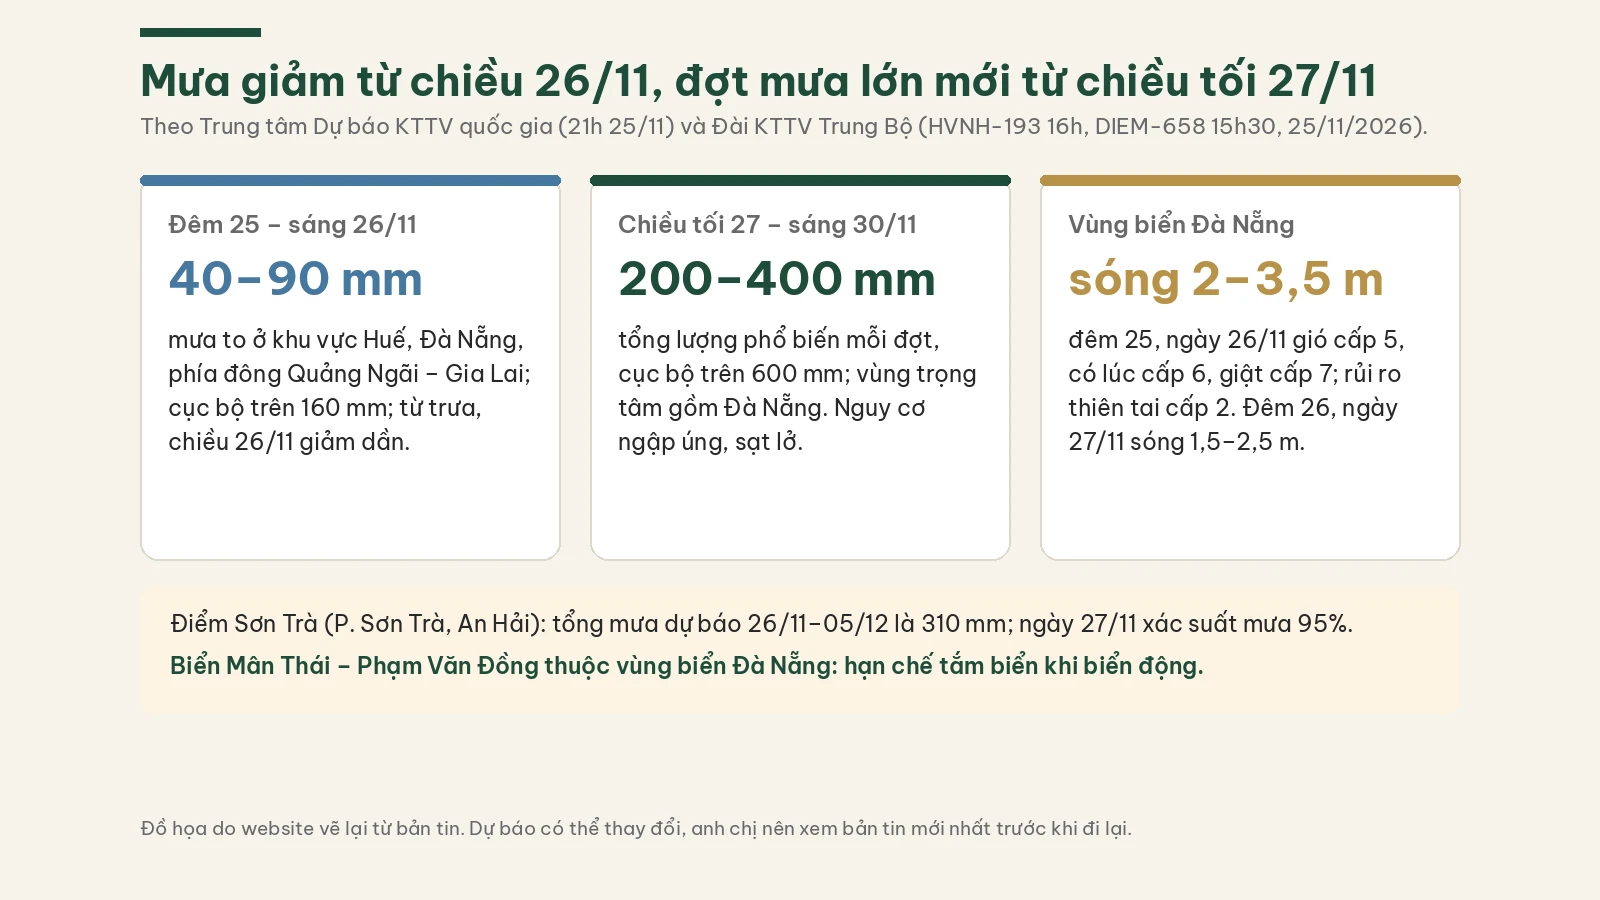
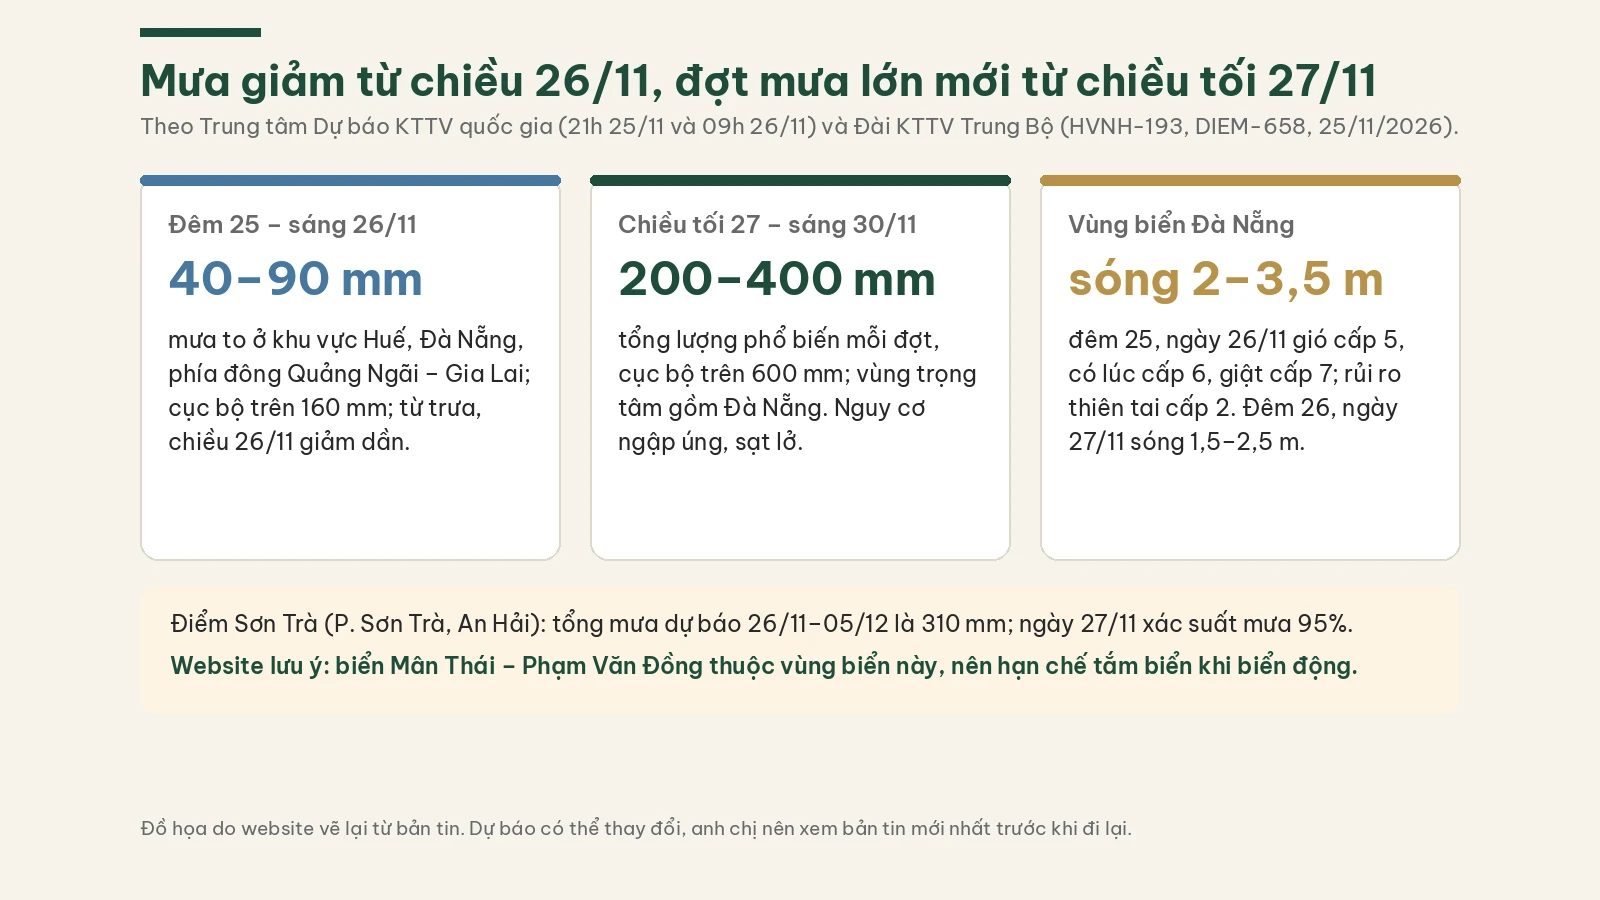
content: chỉnh góp ý không chặn của Luna trên tin Sơn Trà 24–26/11 (26.11.2026)

Changed region(s): [[0.0938, 0.7156, 0.8438, 0.7778], [0.4062, 0.1244, 0.9062, 0.1556]]

diff --git a/src/data/news/articles/son-tra-ban-co-kiem-diem-mua-lon-26-11-2026.ts b/src/data/news/articles/son-tra-ban-co-kiem-diem-mua-lon-26-11-2026.ts
@@ -33,7 +33,7 @@ export const article = {
     },
     {
       heading: "Ngày nghỉ 24/11: đường lên đỉnh Bàn Cờ ùn tắc",
-      text: "Ngày 24/11/2026, Ngày Văn hóa Việt Nam lần thứ nhất, là ngày nghỉ lễ. Theo Tuổi Trẻ (24/11/2026), từ rạng sáng rất đông người dân, du khách lên bán đảo Sơn Trà tham quan, đi bộ, trekking; tại đoạn cách chân núi khoảng 2 km, xe máy dựng kín hai bên đường. Từ 9 giờ, khi nhiều người xuống núi trong lúc xe vẫn đi hai chiều, tuyến từ đường Yết Kiêu lên đỉnh Bàn Cờ ùn tắc kéo dài, nặng nhất khoảng 9–11 giờ khi trời có mưa. Công an phường Sơn Trà và Ban Quản lý bán đảo Sơn Trà và các bãi biển du lịch Đà Nẵng tăng cường lực lượng điều tiết hai chiều, đồng thời hạn chế ô tô tiếp tục lên núi; đến gần 12 giờ đường mới ngớt người.",
+      text: "Ngày 24/11/2026, Ngày Văn hóa Việt Nam lần thứ nhất, là ngày nghỉ lễ. Theo Tuổi Trẻ (24/11/2026), từ rạng sáng rất đông người dân, du khách lên bán đảo Sơn Trà tham quan, đi bộ, trekking; tại đoạn cách chân núi khoảng 2 km, xe máy dựng kín hai bên đường. Từ 9 giờ, khi nhiều người xuống núi trong lúc xe vẫn đi hai chiều, tuyến từ đường Yết Kiêu lên đỉnh Bàn Cờ ùn tắc kéo dài, nặng nhất khoảng 9–11 giờ khi trời có mưa. Công an phường Sơn Trà cùng Ban Quản lý bán đảo Sơn Trà và các bãi biển du lịch Đà Nẵng tăng cường lực lượng điều tiết hai chiều, đồng thời hạn chế ô tô tiếp tục lên núi; đến gần 12 giờ đường mới ngớt người.",
     },
     {
       text: "Theo Dân trí và VietNamNet (24/11/2026), Ban Quản lý bán đảo khuyến cáo: đậu, đỗ xe đúng nơi quy định, không lấn chiếm lòng đường hay cản lối ra vào chốt trực; khi bãi xe quá tải thì theo hướng dẫn của nhân viên. Xe dịch vụ và ô tô từ 16 chỗ trở lên chỉ dừng tại chốt để đón, trả khách rồi xuống chân núi, không đậu chờ tại trạm gác. Người trekking nên chuẩn bị sức khỏe, mang nước, đi theo nhóm, không tách đoàn hay vào khu vực không được phép tham quan; khi có biểu hiện nặng như ngất, co giật thì gọi cấp cứu 115 hoặc báo nhân viên Ban Quản lý.",
@@ -42,7 +42,7 @@ export const article = {
       text: "Ngày 25/11, Tuổi Trẻ dẫn lời đại diện Ban Quản lý bán đảo cho biết lượng người lên núi quá đông gây áp lực cho vệ sinh môi trường: dù đã khuyến cáo liên tục, tình trạng xả rác, bẻ cành cây vẫn xảy ra, nhất là hôm trời mưa còn nhiều túi ni lông, áo mưa bị bỏ lại; đơn vị phải huy động người lên núi dọn liên tục.",
     },
     {
-      text: "Bán đảo Sơn Trà đã tạm dừng hoạt động tham quan từ 15h30 ngày 10/11/2026, khi đó Ban Quản lý chưa xác định thời điểm mở lại (VietNamNet, 10/11/2026). Các bài báo ngày 24 và 25/11 mô tả người dân lên núi đông và Ban Quản lý trực chốt, điều tiết, nhưng không nhắc đến thông báo ngày 10/11; đến sáng 26/11 website chưa thấy thông báo mở lại chính thức nào được báo chí đưa tin. Với đợt mưa lớn sắp tới, anh chị nên theo dõi thông báo chính thức của Ban Quản lý bán đảo trước khi lên núi.",
+      text: "Bán đảo Sơn Trà đã tạm dừng hoạt động tham quan từ 15h30 ngày 10/11/2026, khi đó Ban Quản lý chưa xác định thời điểm mở lại (VietNamNet, 10/11/2026). Các bài báo ngày 24 và 25/11 mô tả người dân lên núi đông và Ban Quản lý trực chốt, điều tiết, nhưng không nhắc đến thông báo ngày 10/11; đến sáng 26/11, website chưa thấy báo chí đưa tin Ban Quản lý có thông báo mở lại tham quan. Với đợt mưa lớn sắp tới, anh chị nên theo dõi thông báo chính thức của Ban Quản lý bán đảo trước khi lên núi.",
       links: [
         {
           to: "/tin-tuc/son-tra-tam-dung-tham-quan-bai-cat-vang-12-11-2026",
@@ -60,7 +60,7 @@ export const article = {
       text: "Chiều 25/11/2026, Ban Thường vụ Đảng ủy phường Sơn Trà tổ chức hội nghị kiểm điểm tập thể, cá nhân năm 2026, có Phó Bí thư Thường trực Thành ủy Nguyễn Khắc Toàn dự (Báo Đà Nẵng, 25/11/2026). Theo bài báo, năm 2026 thu ngân sách nhà nước trên địa bàn phường ước đạt 1.687,65 tỷ đồng, bằng 100,1% dự toán; giải ngân vốn đầu tư công ước 131,84 tỷ đồng, bằng 107,5% kế hoạch; tốc độ tăng tổng giá trị sản phẩm trên địa bàn ước 11,36%; thu nhập bình quân đầu người 6,8 triệu đồng/tháng. Đồ họa dưới đây do website vẽ lại từ bài Báo Đà Nẵng.",
       image: "/images/news-son-tra-2611-body-phuong.webp",
       imageAlt:
-        "Đồ họa số liệu phường Sơn Trà năm 2026 nêu tại hội nghị kiểm điểm Ban Thường vụ Đảng ủy phường ngày 25/11/2026 (Báo Đà Nẵng 25/11/2026): thu ngân sách ước 1.687,65 tỷ đồng, bằng 100,1% dự toán; giải ngân đầu tư công ước 131,84 tỷ đồng, bằng 107,5% kế hoạch; tăng tổng giá trị sản phẩm ước 11,36%; thu nhập bình quân 6,8 triệu đồng/người/tháng; hơn 250 đợt ra quân trật tự vỉa hè trên 98 tuyến đường; gần 700 tấn rác tồn đọng được thu gom, xóa hơn 50 điểm đen rác; phạm pháp hình sự giảm 27%; hồ sơ hành chính đúng hạn 99,6%. Những việc được yêu cầu kiểm điểm sâu: quản lý đô thị, trật tự xây dựng, vệ sinh môi trường, giải phóng mặt bằng; một số dự án kéo dài; khai thác biển, bán đảo Sơn Trà và không gian ven biển chưa tương xứng; tội phạm ma túy có chiều hướng gia tăng.",
+        "Đồ họa số liệu phường Sơn Trà năm 2026 nêu tại hội nghị kiểm điểm Ban Thường vụ Đảng ủy phường ngày 25/11/2026 (Báo Đà Nẵng 25/11/2026): thu ngân sách ước 1.687,65 tỷ đồng, bằng 100,1% dự toán; giải ngân đầu tư công ước 131,84 tỷ đồng, bằng 107,5% kế hoạch; tăng tổng giá trị sản phẩm ước 11,36%; thu nhập bình quân 6,8 triệu đồng/người/tháng; hơn 250 đợt ra quân trật tự vỉa hè trên 98 tuyến đường; gần 700 tấn rác tồn đọng được thu gom, xóa hơn 50 điểm đen rác; phạm pháp hình sự giảm 27%; hồ sơ hành chính trước hạn, đúng hạn 99,6%. Những việc được yêu cầu kiểm điểm sâu: quản lý đô thị, trật tự xây dựng, vệ sinh môi trường, giải phóng mặt bằng; một số dự án kéo dài; khai thác biển, bán đảo Sơn Trà và không gian ven biển chưa tương xứng; tội phạm ma túy có chiều hướng gia tăng.",
     },
     {
       text: "Về quản lý đô thị, phường có hơn 250 đợt ra quân xử lý trật tự vỉa hè trên 98 tuyến đường, thu gom gần 700 tấn rác thải tồn đọng, xóa hơn 50 điểm đen tập kết rác sai quy định; hỗ trợ an sinh hơn 3 tỷ đồng, trợ cấp thường xuyên cho 2.820 đối tượng. Phạm pháp hình sự giảm 27% so với cùng kỳ; tỷ lệ hồ sơ hành chính giải quyết trước hạn, đúng hạn 99,6%. Ban Thường vụ cũng thông qua ba đề án trọng tâm về phát triển kinh tế biển bền vững, xây dựng cộng đồng hạnh phúc và nâng cao chất lượng giáo dục. (Báo Đà Nẵng, 25/11/2026)",
@@ -70,10 +70,10 @@ export const article = {
     },
     {
       heading: "Mưa giảm từ chiều 26/11, đợt mưa lớn mới từ chiều tối 27/11",
-      text: "Theo Trung tâm Dự báo khí tượng thủy văn quốc gia (tin 21h ngày 25/11/2026), từ đêm 25 đến sáng 26/11, khu vực Huế, Đà Nẵng và phía đông các tỉnh từ Quảng Ngãi đến Gia Lai có mưa to, phổ biến 40–90 mm, cục bộ trên 160 mm; từ trưa và chiều 26/11 mưa giảm dần. Từ chiều tối 27 đến sáng 30/11, khu vực từ Huế đến Đà Nẵng, phía đông các tỉnh từ Quảng Ngãi đến Đắk Lắk và Khánh Hòa có khả năng cao xuất hiện một đợt mưa lớn diện rộng; trọng tâm gồm phía nam Huế, Đà Nẵng và phía đông các tỉnh từ Quảng Ngãi đến Gia Lai, tổng lượng phổ biến 200–400 mm/đợt, cục bộ trên 600 mm. Cơ quan dự báo cảnh báo nguy cơ ngập úng ở vùng trũng, khu đô thị và sạt lở đất trên sườn dốc.",
+      text: "Theo Trung tâm Dự báo khí tượng thủy văn quốc gia (tin 21h ngày 25/11/2026), từ đêm 25 đến sáng 26/11, khu vực Huế, Đà Nẵng và phía đông các tỉnh từ Quảng Ngãi đến Gia Lai có mưa to, phổ biến 40–90 mm, cục bộ trên 160 mm; từ trưa và chiều 26/11 mưa giảm dần. Từ chiều tối 27 đến sáng 30/11, khu vực từ Huế đến Đà Nẵng, phía đông các tỉnh từ Quảng Ngãi đến Đắk Lắk và Khánh Hòa có khả năng cao xuất hiện một đợt mưa lớn diện rộng; trọng tâm gồm phía nam Huế, Đà Nẵng và phía đông các tỉnh từ Quảng Ngãi đến Gia Lai, tổng lượng phổ biến 200–400 mm/đợt, cục bộ trên 600 mm. Bản tin 09h ngày 26/11/2026 của cùng cơ quan vẫn nêu tổng lượng phổ biến 200–400 mm/đợt, cục bộ trên 600 mm. Cơ quan dự báo cảnh báo nguy cơ ngập úng ở vùng trũng, khu đô thị và sạt lở đất trên sườn dốc.",
       image: "/images/news-son-tra-2611-body-mua.webp",
       imageAlt:
-        "Đồ họa mưa lớn và biển động: theo Trung tâm Dự báo KTTV quốc gia tin 21h ngày 25/11/2026, đêm 25 đến sáng 26/11 khu vực Huế, Đà Nẵng và phía đông Quảng Ngãi – Gia Lai mưa to 40–90 mm, cục bộ trên 160 mm, từ trưa chiều 26/11 giảm dần; từ chiều tối 27 đến sáng 30/11 đợt mưa lớn diện rộng, vùng trọng tâm gồm Đà Nẵng, tổng lượng phổ biến 200–400 mm/đợt, cục bộ trên 600 mm. Theo Đài KTTV Trung Bộ 25/11: vùng biển Đà Nẵng đêm 25 và ngày 26/11 gió cấp 5, có lúc cấp 6, giật cấp 7, sóng 2,0–3,5 m, rủi ro thiên tai do gió mạnh trên biển cấp 2; đêm 26 và ngày 27/11 gió cấp 4–5, giật cấp 6, sóng 1,5–2,5 m. Điểm dự báo Sơn Trà (phường Sơn Trà, An Hải): tổng mưa 26/11–05/12 dự báo 310 mm, xác suất mưa 95% ngày 27/11.",
+        "Đồ họa mưa lớn và biển động: theo Trung tâm Dự báo KTTV quốc gia tin 21h ngày 25/11/2026, đêm 25 đến sáng 26/11 khu vực Huế, Đà Nẵng và phía đông Quảng Ngãi – Gia Lai mưa to 40–90 mm, cục bộ trên 160 mm, từ trưa chiều 26/11 giảm dần; từ chiều tối 27 đến sáng 30/11 đợt mưa lớn diện rộng, vùng trọng tâm gồm Đà Nẵng, tổng lượng phổ biến 200–400 mm/đợt, cục bộ trên 600 mm (bản tin 09h 26/11 vẫn nêu 200–400 mm/đợt, cục bộ trên 600 mm). Dòng website lưu ý: biển Mân Thái – Phạm Văn Đồng thuộc vùng biển này, nên hạn chế tắm biển khi biển động. Theo Đài KTTV Trung Bộ 25/11: vùng biển Đà Nẵng đêm 25 và ngày 26/11 gió cấp 5, có lúc cấp 6, giật cấp 7, sóng 2,0–3,5 m, rủi ro thiên tai do gió mạnh trên biển cấp 2; đêm 26 và ngày 27/11 gió cấp 4–5, giật cấp 6, sóng 1,5–2,5 m. Điểm dự báo Sơn Trà (phường Sơn Trà, An Hải): tổng mưa 26/11–05/12 dự báo 310 mm, xác suất mưa 95% ngày 27/11.",
     },
     {
       text: "Đài Khí tượng thủy văn Trung Bộ (tin 16h ngày 25/11/2026) dự báo đêm 25 và ngày 26/11 vùng biển Đà Nẵng gió Đông Bắc cấp 5, có lúc cấp 6, giật cấp 7, biển động, sóng cao 2,0–3,5 m, cấp độ rủi ro thiên tai do gió mạnh trên biển cấp 2; đêm 26 và ngày 27/11 gió còn cấp 4–5, giật cấp 6, sóng 1,5–2,5 m. Bản tin dự báo điểm 10 ngày cùng ngày (15h30) cho điểm Sơn Trà, đại diện phường Sơn Trà và phường An Hải, tổng lượng mưa từ 26/11 đến 05/12 là 310 mm, xác suất mưa 95% ngày 27/11. Biển Mân Thái – Phạm Văn Đồng nằm trong vùng biển này; anh chị nên hạn chế tắm biển khi biển động và xem bản tin mới nhất trước khi đi lại.",
@@ -105,11 +105,11 @@ export const article = {
     },
     {
       heading: "Đợt mưa lớn tiếp theo ở Đà Nẵng là khi nào?",
-      text: "Theo Trung tâm Dự báo KTTV quốc gia (21h ngày 25/11/2026), từ chiều tối 27 đến sáng 30/11 khu vực từ Huế đến Đà Nẵng và một số tỉnh Nam Trung Bộ có khả năng cao mưa lớn diện rộng, phổ biến 200–400 mm/đợt, cục bộ trên 600 mm. Dự báo có thể thay đổi, anh chị nên xem bản tin mới nhất.",
+      text: "Theo Trung tâm Dự báo KTTV quốc gia (21h ngày 25/11/2026), từ chiều tối 27 đến sáng 30/11 khu vực từ Huế đến Đà Nẵng và một số tỉnh Nam Trung Bộ có khả năng cao mưa lớn diện rộng, phổ biến 200–400 mm/đợt, cục bộ trên 600 mm. Bản tin 09h ngày 26/11/2026 vẫn nêu cùng mức 200–400 mm/đợt, cục bộ trên 600 mm. Dự báo có thể thay đổi, anh chị nên xem bản tin mới nhất.",
     },
     {
       heading: "Lưu ý",
-      text: "Thông tin tổng hợp từ Tuổi Trẻ (24 và 25/11/2026), Dân trí (24/11/2026), VietNamNet (24/11 và 10/11/2026), Báo Đà Nẵng (25/11/2026), Trung tâm Dự báo khí tượng thủy văn quốc gia (25/11/2026) và Đài Khí tượng thủy văn Trung Bộ (25/11/2026), mang tính tham khảo. Bài không phải thông báo chính thức của UBND TP Đà Nẵng, Đảng ủy hay UBND phường Sơn Trà, Ban Quản lý bán đảo Sơn Trà, cơ quan khí tượng thủy văn hay The Camellia Sơn Trà. Nguồn: Tuổi Trẻ (Trường Trung), 13:17 24/11/2026 — https://tuoitre.vn/nguoi-dan-un-un-len-nui-son-tra-choi-duong-len-dinh-ban-co-un-tac-keo-dai-100261124123238401.htm ; Tuổi Trẻ (Trường Trung), 25/11/2026 — https://tuoitre.vn/vi-sao-gioi-tre-me-met-cung-duong-trekking-tren-dinh-ban-co-100261125115921738.htm ; Dân trí (Hoài Sơn), 15:22 24/11/2026 — https://dantri.com.vn/du-lich/ban-dao-son-tra-dong-nghit-nguoi-trekking-nhieu-bai-xe-kin-cho-20261124135749559.htm ; VietNamNet (Hồ Giáp), 14:17 24/11/2026 — https://vietnamnet.vn/ban-dao-son-tra-dong-nghit-nguoi-di-bo-kham-pha-da-nang-phat-khuyen-cao-2578135.html ; Báo Đà Nẵng, 16:56 25/11/2026 — https://baodanang.vn/pho-bi-thu-thuong-truc-thanh-uy-nguyen-khac-toan-du-kiem-diem-ban-thuong-vu-dang-uy-phuong-son-tra-3359519.html ; Trung tâm Dự báo KTTV quốc gia, tin dự báo mưa lớn 21h 25/11/2026 — https://nchmf.gov.vn/kttvsite/vi-VN/1/tin-du-bao-mua-lon-o-khu-vuc-tu-tp-hue-den-phia-dong-tinh-quang-ngai-post56317.html ; Đài KTTV Trung Bộ, tin gió mạnh, sóng lớn HVNH-193, 16h 25/11/2026 — https://pctt.danang.gov.vn/Portals/0/DNAN_HVNH_20261125_1600.pdf ; Đài KTTV Trung Bộ, bản tin dự báo điểm DIEM-658, 15h30 25/11/2026 — https://pctt.danang.gov.vn/Portals/0/DNAN_DIEM_20261125_1530.pdf ; VietNamNet (Hồ Giáp), 17:31 10/11/2026 — https://vietnamnet.vn/da-nang-tam-dung-tham-quan-ban-dao-son-tra-2573523.html Ảnh đầu bài: Ảnh minh họa tạo bằng AI, không phải ảnh chụp bán đảo Sơn Trà, đỉnh Bàn Cờ hay The Camellia Sơn Trà. Đồ họa tóm tắt, đồ họa số liệu phường và đồ họa mưa lớn do website thiết kế, không phải ảnh chụp.",
+      text: "Thông tin tổng hợp từ Tuổi Trẻ (24 và 25/11/2026), Dân trí (24/11/2026), VietNamNet (24/11 và 10/11/2026), Báo Đà Nẵng (25/11/2026), Trung tâm Dự báo khí tượng thủy văn quốc gia (25 và 26/11/2026) và Đài Khí tượng thủy văn Trung Bộ (25/11/2026), mang tính tham khảo. Bài không phải thông báo chính thức của UBND TP Đà Nẵng, Đảng ủy hay UBND phường Sơn Trà, Ban Quản lý bán đảo Sơn Trà, cơ quan khí tượng thủy văn hay The Camellia Sơn Trà. Nguồn: Tuổi Trẻ (Trường Trung), 13:17 24/11/2026 — https://tuoitre.vn/nguoi-dan-un-un-len-nui-son-tra-choi-duong-len-dinh-ban-co-un-tac-keo-dai-100261124123238401.htm ; Tuổi Trẻ (Trường Trung), 15:06 25/11/2026 — https://tuoitre.vn/vi-sao-gioi-tre-me-met-cung-duong-trekking-tren-dinh-ban-co-100261125115921738.htm ; Dân trí (Hoài Sơn), 15:22 24/11/2026 — https://dantri.com.vn/du-lich/ban-dao-son-tra-dong-nghit-nguoi-trekking-nhieu-bai-xe-kin-cho-20261124135749559.htm ; VietNamNet (Hồ Giáp), 14:17 24/11/2026 — https://vietnamnet.vn/ban-dao-son-tra-dong-nghit-nguoi-di-bo-kham-pha-da-nang-phat-khuyen-cao-2578135.html ; Báo Đà Nẵng, 16:56 25/11/2026 — https://baodanang.vn/pho-bi-thu-thuong-truc-thanh-uy-nguyen-khac-toan-du-kiem-diem-ban-thuong-vu-dang-uy-phuong-son-tra-3359519.html ; Trung tâm Dự báo KTTV quốc gia, tin dự báo mưa lớn 21h 25/11/2026 — https://nchmf.gov.vn/kttvsite/vi-VN/1/tin-du-bao-mua-lon-o-khu-vuc-tu-tp-hue-den-phia-dong-tinh-quang-ngai-post56317.html ; Trung tâm Dự báo KTTV quốc gia, tin cảnh báo mưa lớn 09h 26/11/2026 — https://nchmf.gov.vn/kttvsite/vi-VN/1/tin-canh-bao-mua-lon-o-khu-vuc-tu-tp-hue-den-tp-da-nang-phia-dong-cac-tinh-tu-quang-ngai-den-dak-lak-va-khanh-hoa-post56386.html ; Đài KTTV Trung Bộ, tin gió mạnh, sóng lớn HVNH-193, 16h 25/11/2026 — https://pctt.danang.gov.vn/Portals/0/DNAN_HVNH_20261125_1600.pdf ; Đài KTTV Trung Bộ, bản tin dự báo điểm DIEM-658, 15h30 25/11/2026 — https://pctt.danang.gov.vn/Portals/0/DNAN_DIEM_20261125_1530.pdf ; VietNamNet (Hồ Giáp), 17:31 10/11/2026 — https://vietnamnet.vn/da-nang-tam-dung-tham-quan-ban-dao-son-tra-2573523.html Ảnh đầu bài: Ảnh minh họa tạo bằng AI, không phải ảnh chụp bán đảo Sơn Trà, đỉnh Bàn Cờ hay The Camellia Sơn Trà. Đồ họa tóm tắt, đồ họa số liệu phường và đồ họa mưa lớn do website thiết kế, không phải ảnh chụp.",
     },
   ],
 } satisfies NewsArticle;
